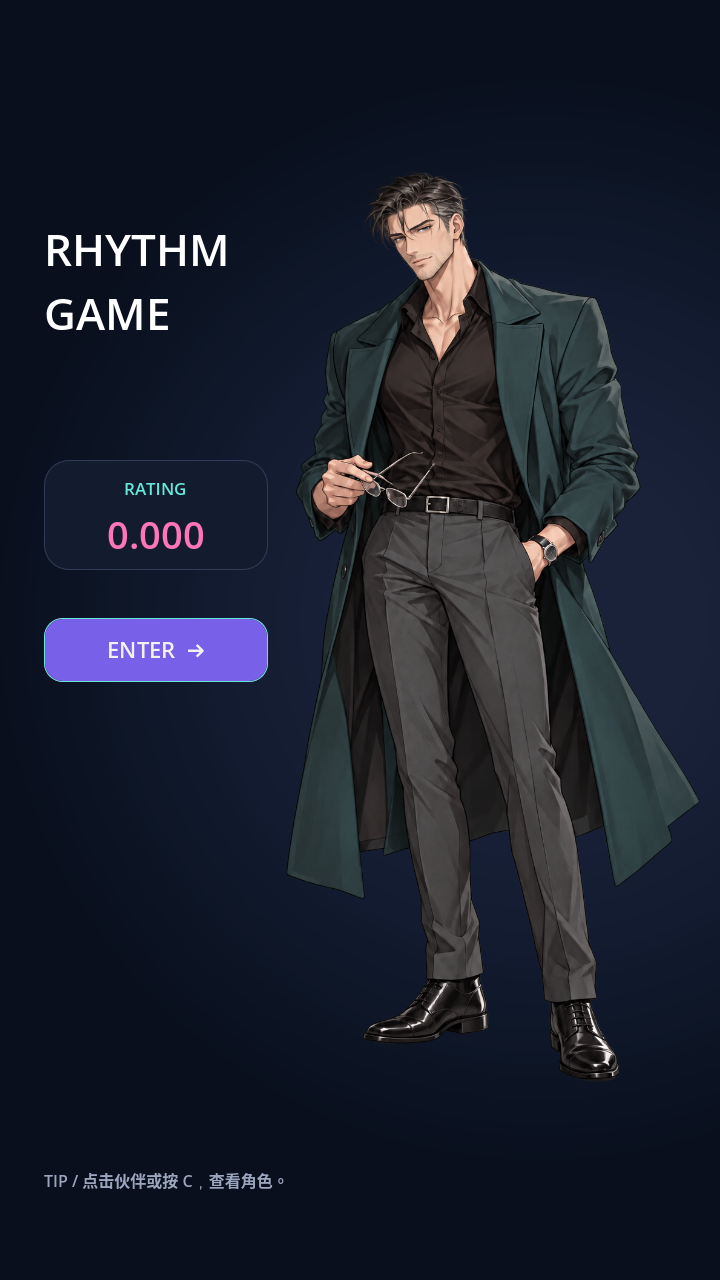
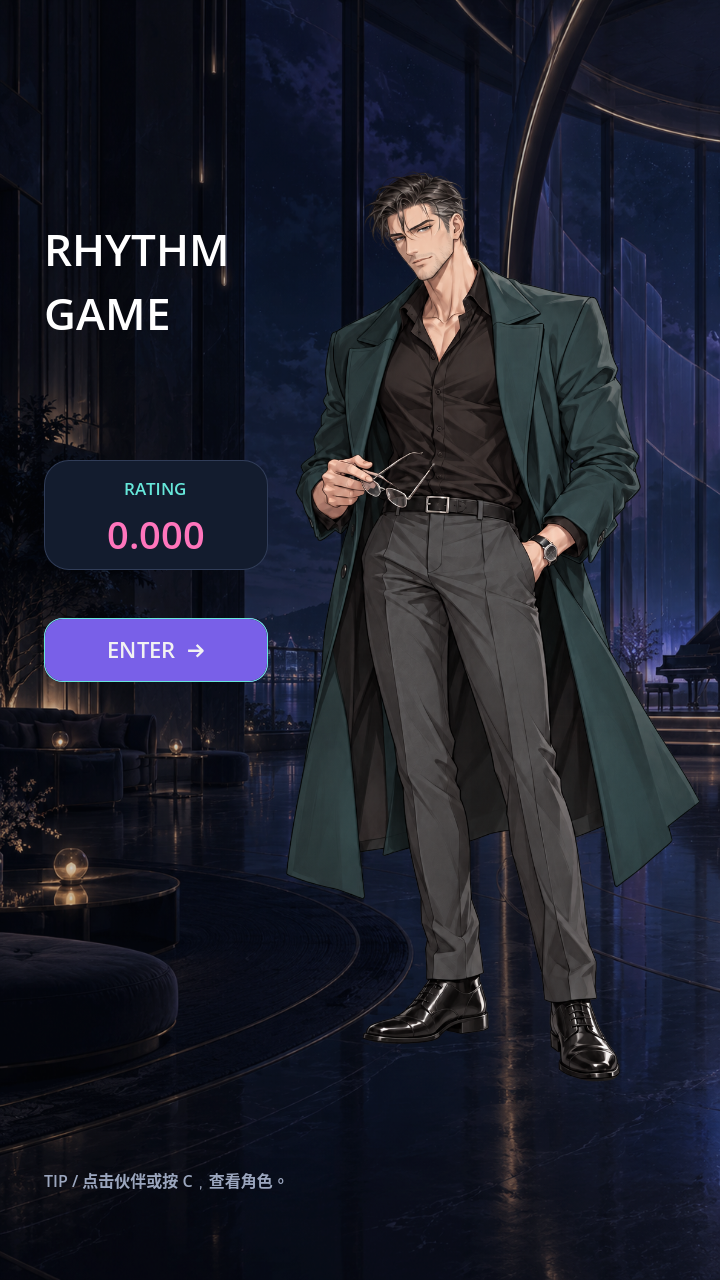
Add midnight home background and remove per-song rating display

diff --git a/RATING.md b/RATING.md
@@ -36,7 +36,7 @@
 个人 Rating：每首歌取历史最高分对应的 Rating，排序后取前 20 首之和，始终除以 20；不足 20 首补零。
 计算过程中不提前四舍五入；界面显示三位小数。
 
-选曲页显示等级和历史最佳 Rating；结算页仅显示等级及个人 Rating，旁边以小号异色数字显示本次增量（例如 `1.137（+0.500）`）；无提升显示 `（+0）`；主页显示个人 Rating。
+选曲页显示等级和历史最高分，不展示单曲 Rating；结算页仅显示等级及个人 Rating，旁边以小号异色数字显示本次增量（例如 `1.137（+0.500）`）；无提升显示 `（+0）`；主页显示个人 Rating。
 结算增量 = 更新最高成绩后的个人 Rating − 更新前的个人 Rating；按完整精度计算，最后显示三位小数。刷新单曲纪录但未进入 Best 20 时，增量也可能为 0。
 
 修改定数后重新进入选曲页或主页，会按新定数重算已有成绩。

diff --git a/PARTNERS.md b/PARTNERS.md
@@ -91,6 +91,10 @@ python3 tests/check_character_expansion.py
 
 导出游戏时，在导出预设的非资源文件过滤中填写 `*.json`，以包含角色配置 `characters/catalog.json` 和歌曲包 JSON。
 
+## 主页背景
+
+开始界面使用原创深蓝夜景音乐厅背景 `assets/backgrounds/home_midnight_atrium.png`，附加轻微深色遮罩；背景不接收输入。
+
 ## 效果图
 
 ![角色页](docs/previews/characters_wenxu.png)
